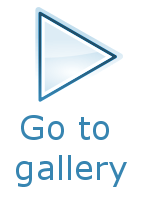
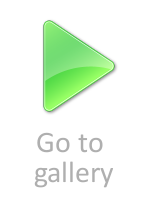
New navigation button and index page CSS improvements.

Changed region(s): [[0.2133, 0.03, 0.8267, 0.57], [0.1067, 0.57, 0.8533, 0.96]]

diff --git a/grid-paint/static/css/main.css b/grid-paint/static/css/main.css
@@ -330,3 +330,26 @@ body {
 .typeahead.dropdown-menu { z-index: 200000; }
 .modal-body{overflow-y: inherit;}
 
+
+
+.index-page-section {
+background: -moz-linear-gradient(top, rgba(237,237,237,0.65) 0%, rgba(0,0,0,0) 100%); /* FF3.6+ */
+background: -webkit-gradient(linear, left top, left bottom, color-stop(0%,rgba(237,237,237,0.65)), color-stop(100%,rgba(0,0,0,0))); /* Chrome,Safari4+ */
+background: -webkit-linear-gradient(top, rgba(237,237,237,0.65) 0%,rgba(0,0,0,0) 100%); /* Chrome10+,Safari5.1+ */
+background: -o-linear-gradient(top, rgba(237,237,237,0.65) 0%,rgba(0,0,0,0) 100%); /* Opera 11.10+ */
+background: -ms-linear-gradient(top, rgba(237,237,237,0.65) 0%,rgba(0,0,0,0) 100%); /* IE10+ */
+background: linear-gradient(to bottom, rgba(237,237,237,0.65) 0%,rgba(0,0,0,0) 100%); /* W3C */
+filter: progid:DXImageTransform.Microsoft.gradient( startColorstr='#a6ededed', endColorstr='#00000000',GradientType=0 ); /* IE6-9 */
+border-radius: 10px;
+}
+
+.index-page-thumbnail {
+	background-color: white;
+}
+
+.index-page-thumb-button {
+	border:0;
+	box-shadow: none;
+}
+
+

diff --git a/grid-paint/templates/index.html b/grid-paint/templates/index.html
@@ -29,12 +29,12 @@ link at the top.
 </div>
 	
 
-<div class="text-center">
+<div class="container text-center index-page-section">
 <h3>Recent images</h3>
 	
 <ul class="thumbnails" style="display: inline-block">	
 {% for a in artworks %}
-	<li class="thumbnail">
+	<li class="thumbnail index-page-thumbnail">
   		<div class="thumb-image">
   			<a href="/images/details/{{ a.key.id }}">
 			  <img src="/images/png/{{ a.thumbnail_image_name }}" width="{{ a.thumbnail_width }}" height="{{ a.thumbnail_height }}">
@@ -48,7 +48,7 @@ link at the top.
 	</li>
 {% endfor %}
 
-	<li class="thumbnail thumb-button">
+	<li class="thumbnail index-page-thumb-button">
 		<a href="/gallery">
 		<img src="/img/goto-gallery.png" border="0" />
 		</a>
@@ -59,7 +59,7 @@ link at the top.
 </div>
 
 
-<div class="container">
+<div class="container index-page-section">
 <div class="text-center">
 <h3>Recent comments</h3>
 </div>
